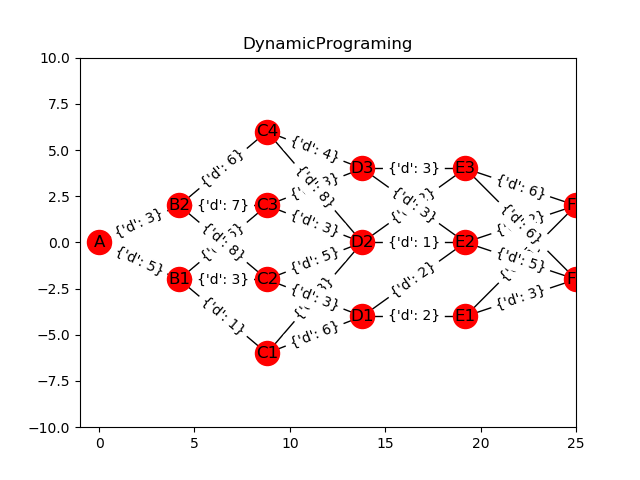
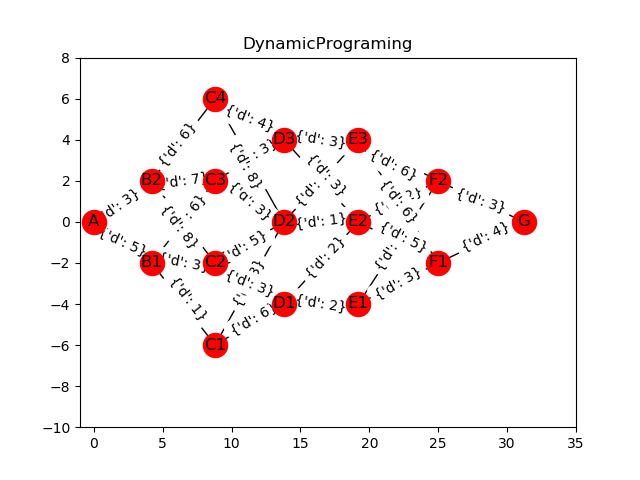
继续完善绘图

diff --git a/dynamicModel.py b/dynamicModel.py
@@ -139,12 +139,9 @@ class DynamicModel:
                         print(self.pathCost[i - 1][j][k])
                         if (self.pathCost[i - 1][j][k] < 100):
                             q = self.pathCost[i - 1][j][k]
-                            # graph.add_edge(self.nodes[i-1][j], self.nodes[i][k])
                             start = self.nodes[i - 1][j]
                             stop = self.nodes[i][k]
                             graph.add_edge(start, stop, d=q)
-                            # graph.add_edge(self.nodes[i-1][j], self.nodes[i][k])
-                            # graph.add_weighted_edges_from([(start, stop, q)])
 
         # nx.draw(graph)
         # pos = nx.spring_layout(graph)
@@ -160,22 +157,22 @@ class DynamicModel:
         ddy = 0.25
         for i in range(len(self.nodes)):
             x = i * (4 + 0.2 * i)
-            # ddy = ddy * (-1)
-            dx = dx * (-1)
             for j in range(len(self.nodes[i])):
+                ddy = ddy * (-1)
+                dx = dx * (-1)
                 nn = len(self.nodes[i])
                 dy = 4
                 sty = (nn - 1) / 4 * -8
                 y = sty + j * dy
                 p = {self.nodes[i][j]: [x, y]}
-                ep = {self.nodes[i][j]: [x, y]}
+                ep = {self.nodes[i][j]: [x + dx, y +ddy]}
                 print(p, type(p))
                 pos.update(p)
                 epos.update(ep)
                 index += 1
         print(pos)
-        plt.xlim(-1, 25)
-        plt.ylim(-10, 10)
+        plt.xlim(-1, 35)
+        plt.ylim(-10, 8)
         nx.draw_networkx(graph, pos)
         # nx.draw_networkx_edge_labels(graph, pos=nx.spectral_layout(graph))
         nx.draw_networkx_edge_labels(graph, epos, rotate=True)
